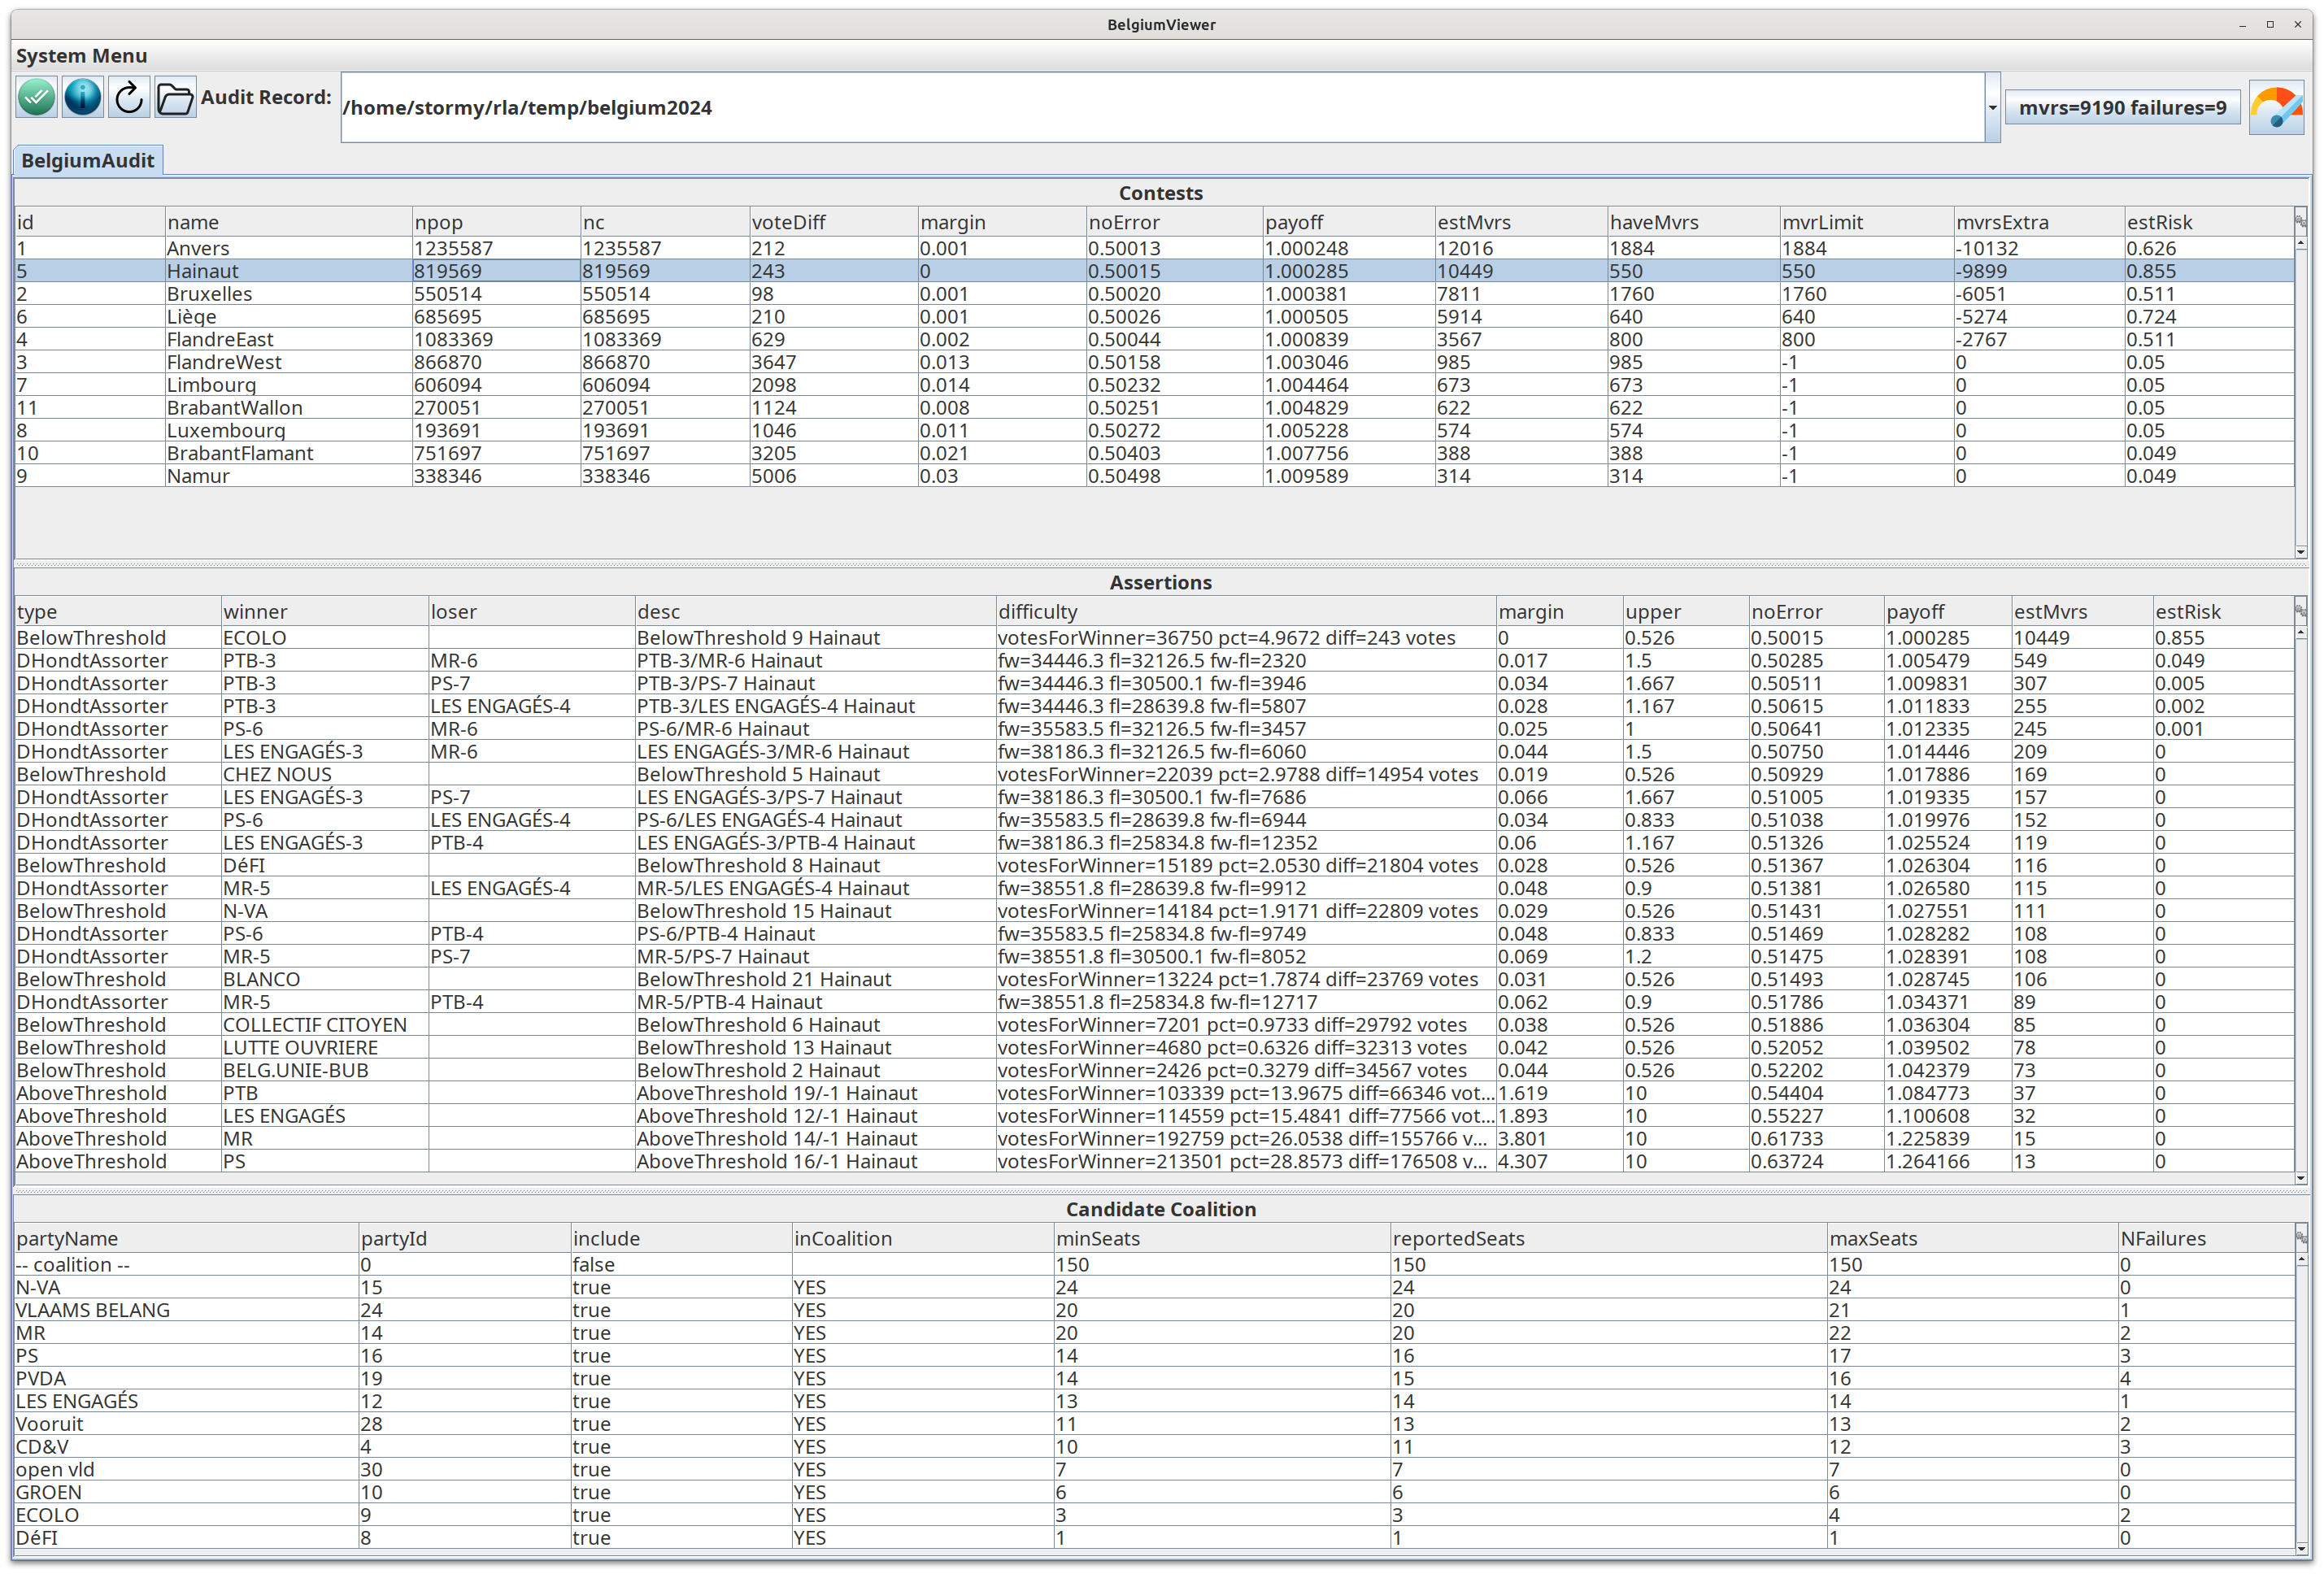
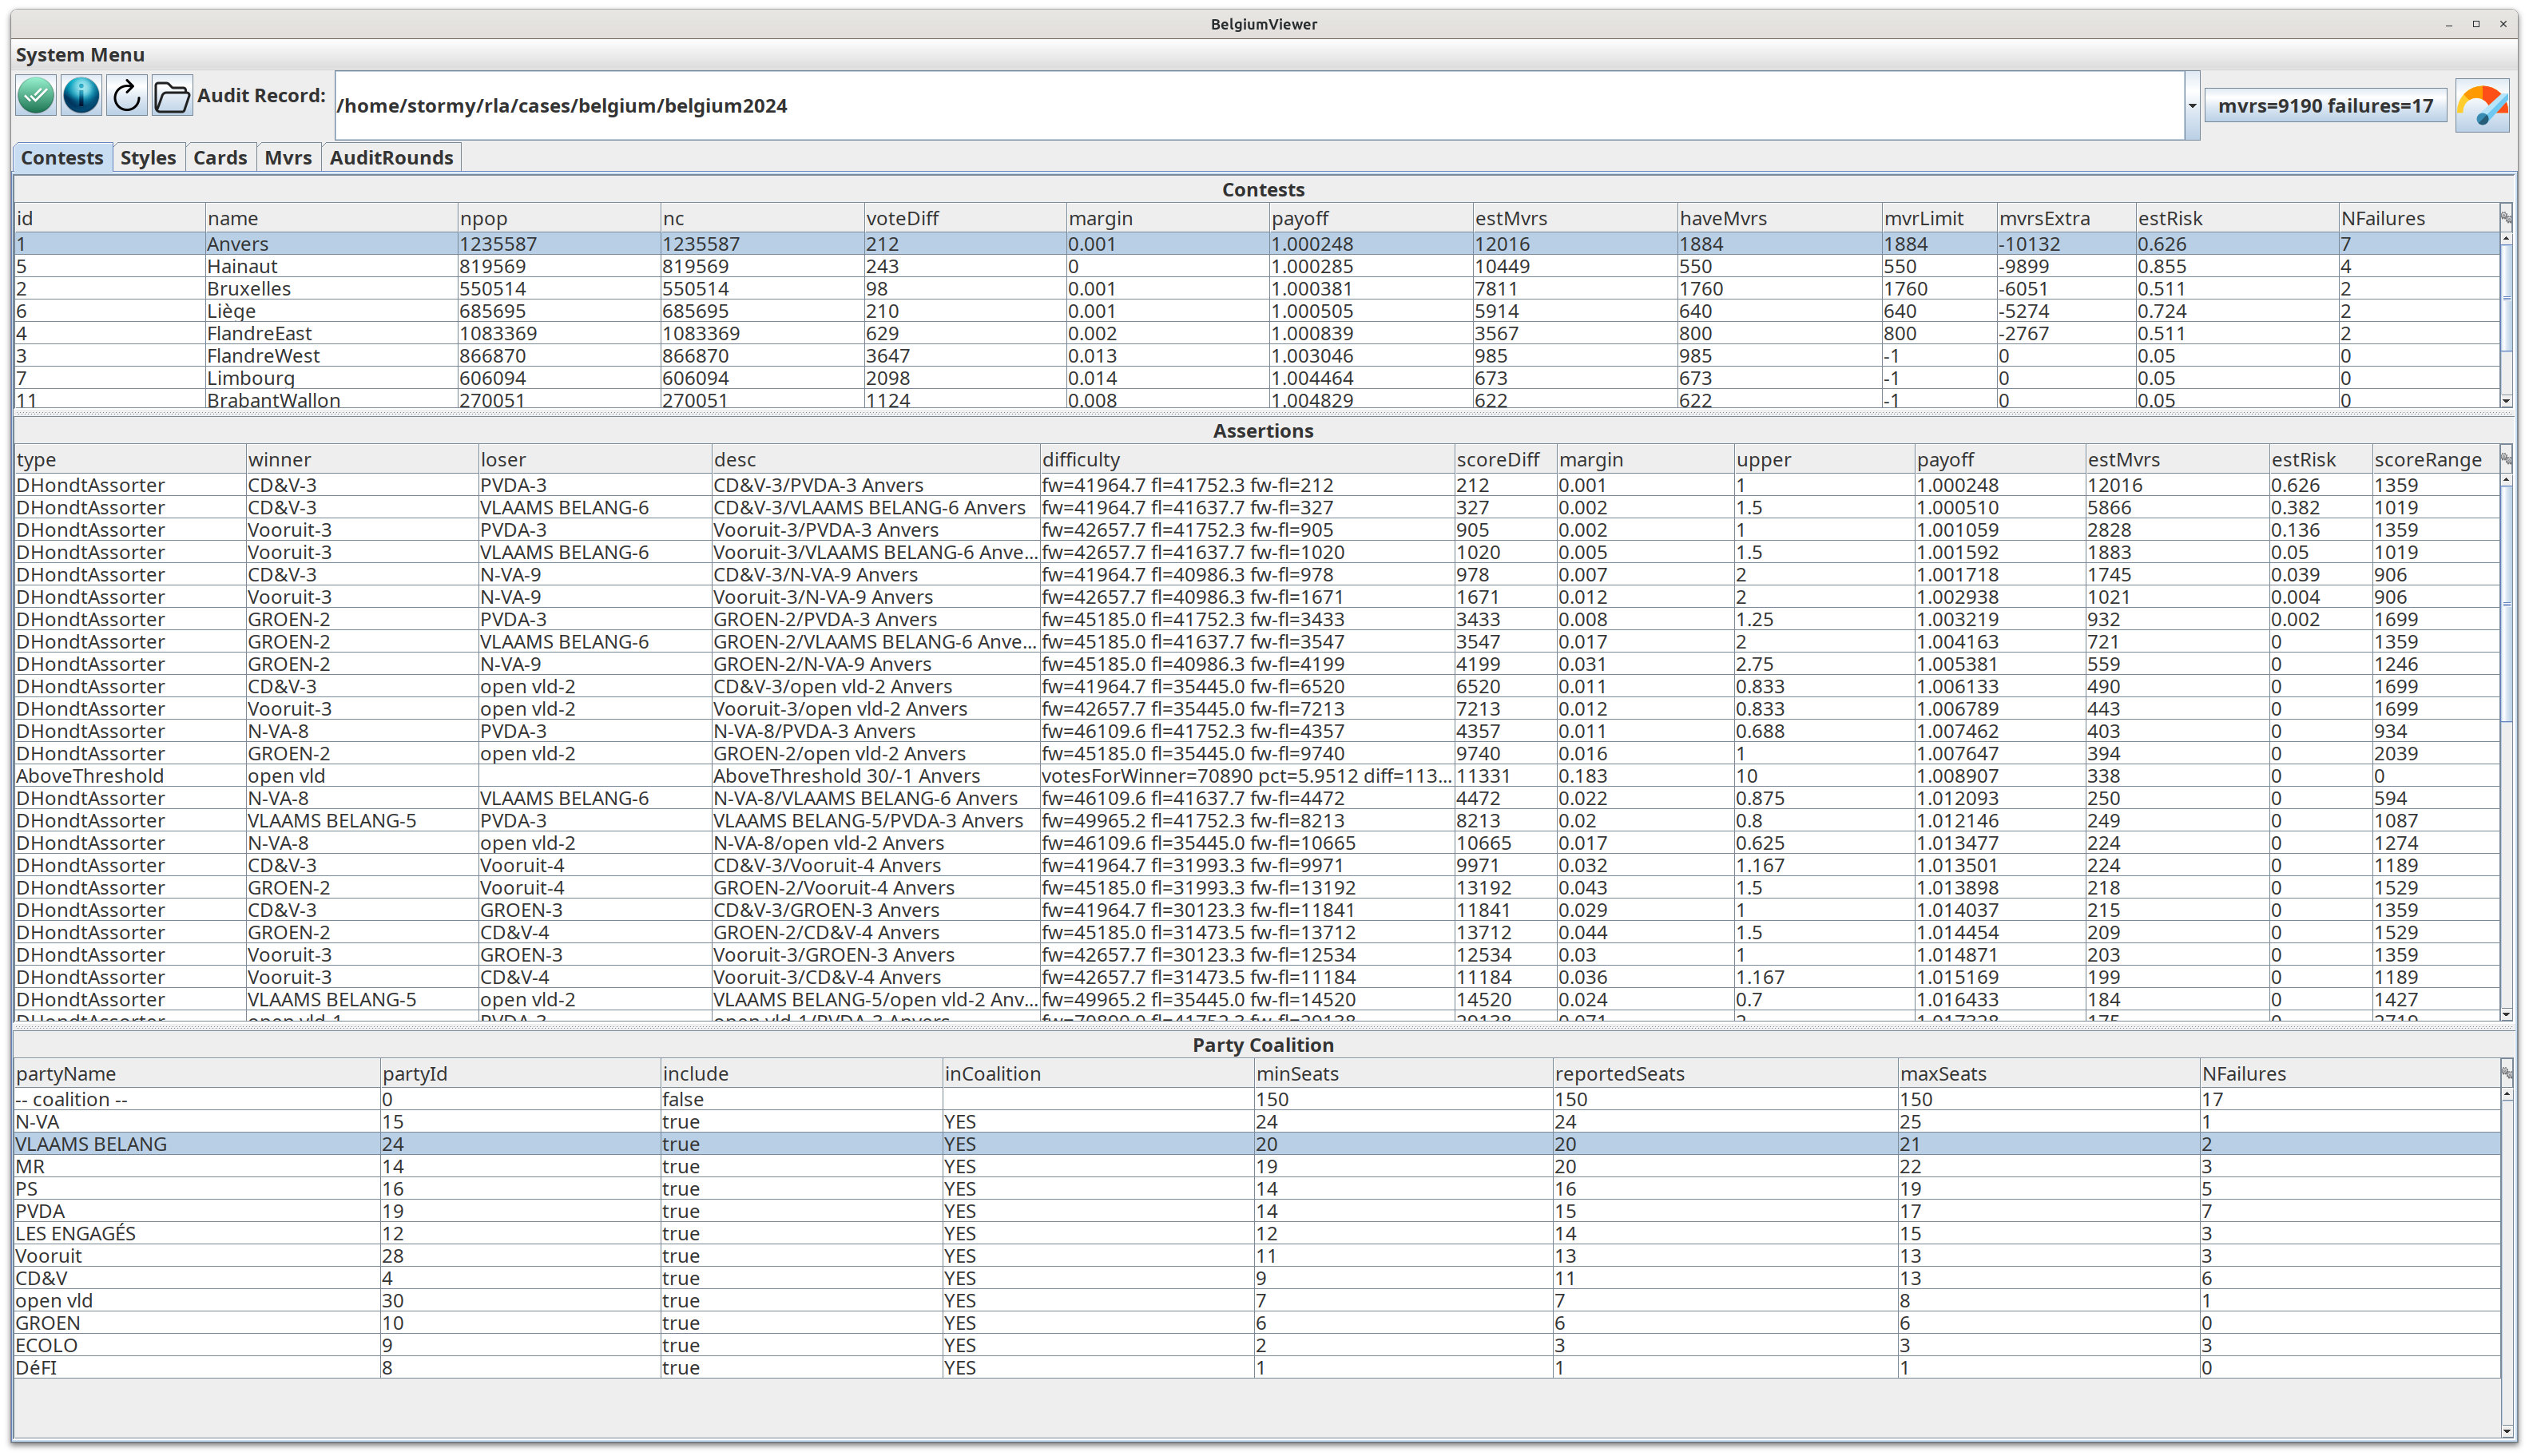
update dhondt docs

Changed region(s): [[0.0, 0.0, 0.9965, 1.0]]

diff --git a/README.md b/README.md
@@ -102,8 +102,8 @@ The **Contests** tab will be populated from the chosen audit record:
 
 ![image](docs/images/ContestsPanel.png)
 
-Select the Contest in the top table, right click and choose **Show Contest**. The Detail window shows more information about that Contest.
-For Dhondt, it summarizes the scoring rounds and winning parties, as well as the parties who didnt clear the threshold (with an asterisk):
+Select a Contest in the top table, right click and choose **Show Contest**. Each visible field is shown with a description
+and its value for that contest, along with a summary of the contest and the reported votes for each candidate:
 
 ![image](docs/images/ShowContest.png)
 
@@ -111,14 +111,25 @@ For Dhondt, it summarizes the scoring rounds and winning parties, as well as the
 
 Change the Font Size from the System Menu in the upper left:
 
-![image](docs/images/SystemMenu.png) 
+![image](docs/images/SystemMenu.png)
 
-Change the window size, the table sizes, the order and size of the table headings, etc. For each table, choose which 
-columns are displayed from the upper right corner gear widget:
+Closing the viewer window will save your UI configuration (in _~/.rlauxe/_). 
+Choose "Exit Viewer NO Save" to exit without saving.
+Choose "Save Preferences to Disk" to save without exiting.
+
+The upper right corner gear widget in each table
 
 ![image](docs/images/TableColumnChooser.png).
 
-When you exit, your choices will be saved  (in ~/.rlauxe/RlauxeViewer.xml) for the next time you start the application.
+allows you to change which columns are visible:
+
+![image](docs/images/TableColumnContests.png).
+
+Change the order and size of the table headings, by clicking and dragging the table headers:
+
+![image](docs/images/TableHeaders.png).
+
+Change the table sort order by clicking the table header of the firld you want to sort on. 
 
 
 ## Showing the results of an audit
@@ -134,21 +145,22 @@ The **Estimation Rounds** table shows the estimated distribution of samples need
 The **Audit Results** table shows the results of the actual Audit (if its was done).
 
 If you right click on the Audit Result line, and choose **Rerun audit with Details**, the audit is rerun and shows the
-actual audit sample values, betting value, pvalue, mvr and cvr. The fields are:
-
-  * j  : sample number
-  * xj : assort value
-  * lamj : BettingMart bet
-  * tj : (1 - lamj*(xj - mj) )
-  * Tj : Product (tj, j=1..j)
-  * pvalue = 1 / Tj
-  * location: sampled CVR's location
-  * mvr votes: MVR's votes
-  * card: CVR's votes
+actual audit sample values, betting value, pvalue, mvr and cvr. 
 
 ![image](docs/images/AuditDetail.png)
 
 In this example, the votes always match, so the assort value always equals noerror, and the estimate should be spot on.
+The fields shown in the **Rerun audit with Details** report are:
+
+* j  : sample number
+* xj : assort value
+* lamj : BettingMart bet
+* tj : (1 - lamj*(xj - mj) )
+* Tj : Product (tj, j=1..j)
+* pvalue = 1 / Tj
+* location: sampled CVR's location
+* mvr votes: MVR's votes
+* card: CVR's votes
 
 
 ## Special Features for Belgium Audits
@@ -158,19 +170,18 @@ To bring up the specialized Belgium Audit viewer, add -belgiumAudit to the comma
 `java -jar viewer/build/libs/viewer-uber.jar -belgiumAudit`
 
 Use the Audit Record chooser to navigate to the top of the Belgium Audit Record, and select it.
-Now there is a single tab:  
 
 ![image](docs/images/belgium/BelgiumViewer.png)
 
 The first table shows all the contests, ie the electoral districts. Choosing a contest shows its assertions in the second table. 
 The total seats for each party (aka candidate) across all contests are shown in the third table.
 
-### Choose number of mvrs
+### Limiting the number mvrs sampled
 
 In the assertion table, the _estMvrs_ column shows how many mvrs will be needed to satisfy the risk limit for that assertion,
 when no discrepancies between the mvrs and the cvrs are found.
 
-The same field in the contest table shows the maximum needed over all assertions for the contest. The contest _mvrLimit_ allows you
+The same field in the contest table shows the maximum needed over all assertions for that contest. The contest _mvrLimit_ allows you
 to limit the number of mvrs for that electoral district. Click in the cell, and enter the mvr limit for that contest.
 The value of -1 means no limit, so the audit will use the value of estMvrs.
 
@@ -184,7 +195,12 @@ The status button in the upper right displays the total mvrs and the number of f
 
 #### Setting mvrLimit in the samplesLimit.txt file
 
-In the top directory, there may be a samplesLimit.txt file with content like:
+In the top directory, there may be a samplesLimit.txt file:
+
+![image](docs/images/belgium/SampleLimits.png)
+
+In this example, that file has the following content:
+
 
 ````
 contest name, contest id, mvrLimit
@@ -195,12 +211,14 @@ Hainut, 5, 550
 Liege, 6, 640
 ````
 
+And you can see that these values are used as the defaults for _mvrLimit_ in the Contests table of the BelgianViewr.
 If a contest is not listed, then mvrLimit is not set.
-This file is read in and used if present. You may edit this file by hand, and then use the **reread sample limits** button
-in the upper right to use it. After reading it in, you  may still modify the mvrLimits by hand. These changes are not
+
+This file is read in and used if present upon startup. You may edit this file by hand, and then use the **reread sample limits** button
+in the upper right to reread it. After reading it in, you may modify the mvrLimits by hand. These changes are not
 written back to the samplesLimit file.
 
-### Choose candidate coalitions
+### Choose Party coalitions
 
 In the Party Coalition table, each party is shown with the reported number of seats won over all contests, along with 
 the number of failed assertions that affect that party (if all contests draw _estMvrs_ samples there will be no failures). 
@@ -209,9 +227,70 @@ When there are failures, the _minSeats_ / _maxSeats_ columns show the minimum/ma
 all _disputed assertions_ are flipped against it / in favor of it.
 
 You can choose party coalitions by clicking on the _include_ column of the party. The number of min/reported/max seats is 
-shown for that coalition of parties. This is not the sum over parties of those fields. If a disputed assertion has both its
+shown for that coalition of parties. This is not the sum over parties of those fields, because if a disputed assertion has both its
 winner and loser in the coalition, than the number of seats for the coalition is not affected by the dispute.
 
+### Party min/max seat algorithm
 
-## Special Features for Corla Audits
+The algorithm for computing the _minSeats_ / _maxSeats_ for a party and a coalition is still being investigated. See [D'Hondt coalition min/max calculation](https://github.com/JohnLCaron/rlauxe/blob/main/docs/Dhondt.md) for the current algorithm used in rlauxe. The following examples may
+vary in some details from the latest versions.
+
+### Show Contest with disputed assertions
+
+Select a Contest in the top table, right click and choose **Show Contest**. In addition to the first two sections shown for Contests of all types,
+in section three DHondt contests show the scoring rounds and winning parties, as well as the parties who didnt clear the threshold (with an asterisk).
+In section four the reported winners (plus first 3 losers) are shown sorted by their score = total votes / round 
+(the scoreDiff column is the difference of each row's score with the row above): 
+
+![image](docs/images/belgium/ShowDHondtContest.png)
+
+When there are disputed (aka failed assertions) there is a fifth section showing all disputed assertions for that contest:
+
+![image](docs/images/belgium/ShowDisputedContest.png)
+
+This will be explained below.
+
+### Show disputed Assertions
+
+In this example we have selected FlandreEast, and its assertions are shown in the Assertions table, which we reverse sort on the
+_estMvrs_ field (estimated number of mvrs needed):
+
+![image](docs/images/belgium/DisputedAssertions.png)
+
+The corresponding _estRisk_ (estimated risk) field shows that the first assertion is estimated to miss the 5% risk limit.
+(We chose the mvrLimit to satisfy as many assertions as possible, but this assertion was deemed too costly).
+
+Select that assertion, right click and choose **Show Assertion**. The detail window shows:
+
+![image](docs/images/belgium/ShowDisputedAssertion.png)
+
+The selected assertion is "winner=Vooruit-3 loser=CD&V-3". Since this is disputed, the alternate (or flipped) assertion is "winner=CD&V-3 loser=Vooruit-3".
+
+The section "Alternate Contest from FlandreEast" shows what the scoring looks like using the flipped assertion. Compare this to the reported scoring in the "Show Contest" for FlandreEast, where Vooruit-3  wins the last seat and CDV-3 is the first loser. Now CDV-3 wins the last seat and Vooruit-3 is the first loser. 
+
+The alternate contest generates all the assertions needed under this alternate scoring. We show only the ones that will fail (because of mvrLimit), namely
+the flipped assertion (winner=CD&V-3 loser=Vooruit-3), and also the "winner=CD&V-3 loser=open vld-3" assertion. This second assertion is
+not present in the original contests since both CD&V-3 and open vld-3 are losers. 
+
+Not shown in the output, but we compute an alternate contest for this second new assertion, and see if it has failures that we dont already have in the contest.
+A new failure will keep recursing if it generates a different new failure. If it does generate a new failure, we show the alternate contest that generated it.
+(I think we dont have any examples of that?).
+
+In this case, no other failures are generated, and these two assertions are the only ones shown in FlandreEast "Show Contest".
+
+When there are multiple failed assertions, say for Anvers which has 3 failed assertions, then for each failed assertion we compute the Alternate Contest 
+and all the failed assertions it creates. We keep track of failed assumptions for the entire contest; we stop recursing if we alredy have seen a particular failed assumption. Each of the 3 failed assertions for Anvers generates the same list of 4 failed assertions. So Anvers has 4 failed assertions altogether.
+
+(TODO: we have not tried combinations of failed assertions to see if new failures are found).
+
+Hainut is special in that its the only one in this example that has a Threshold assertion failure. However, the algorithm is the same: create an alternate contest
+and find the failed assertions. Recurse on those to see if new failures are found.
+
+(TODO: also not tested are combinations of failed threshold assertions (in the same contest) to see if new failures are found).
+
+
+
+
+
+
 